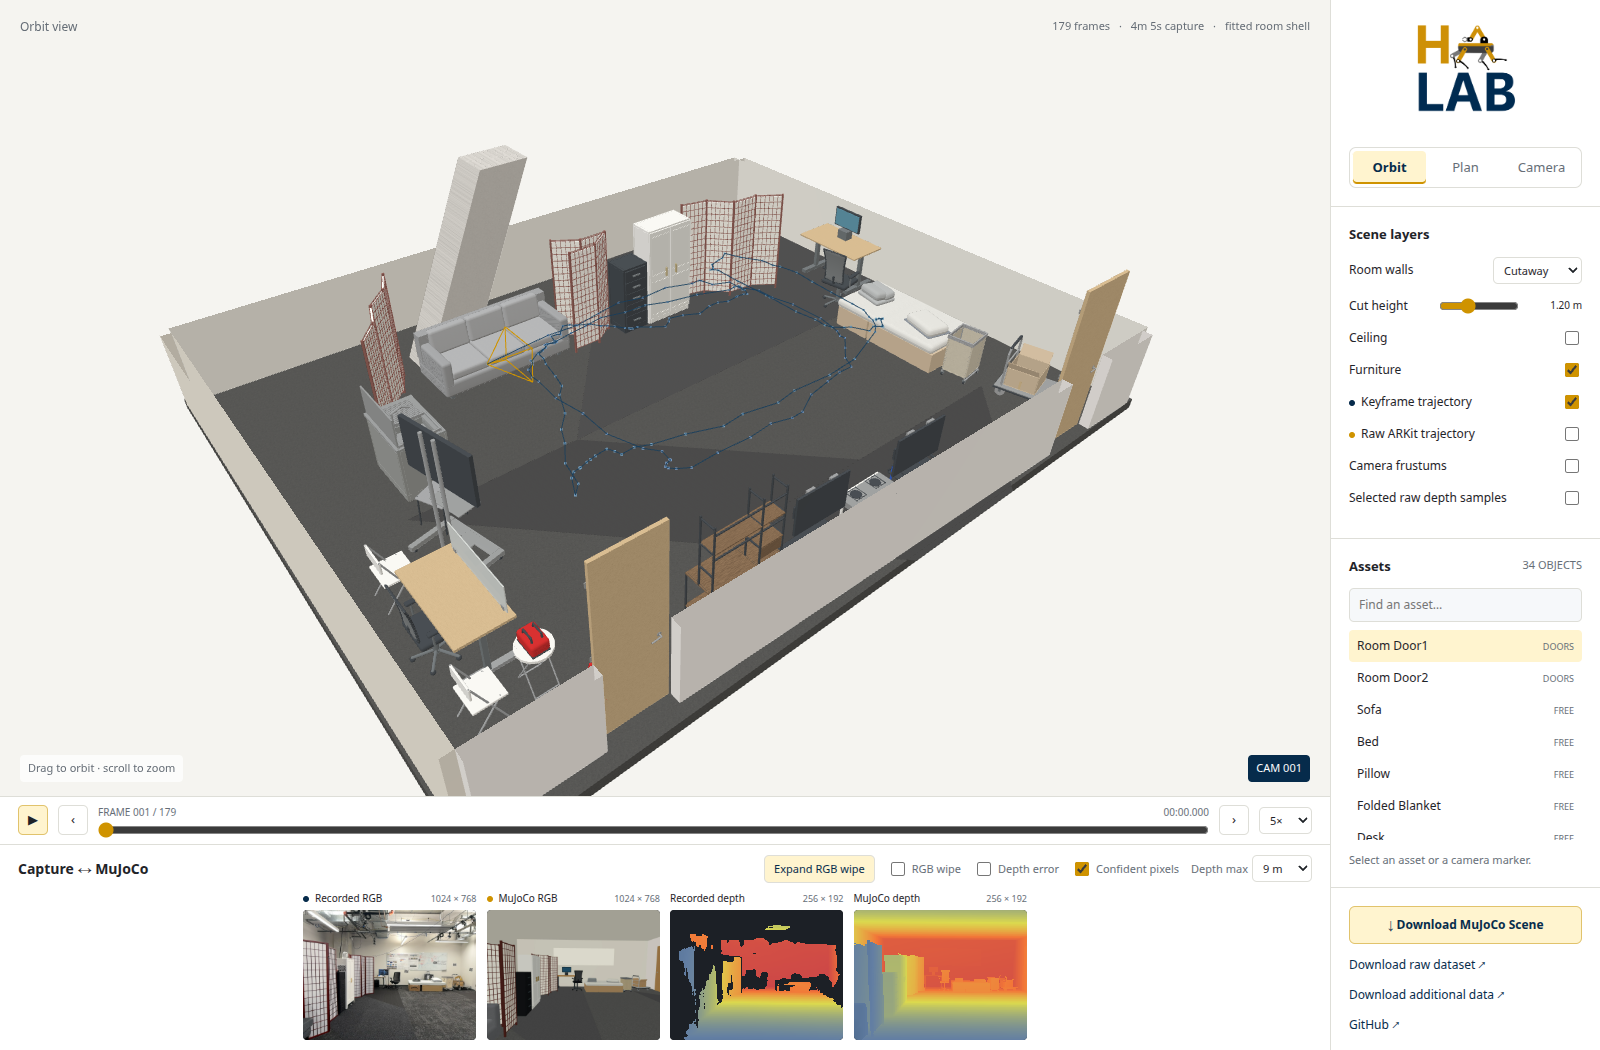
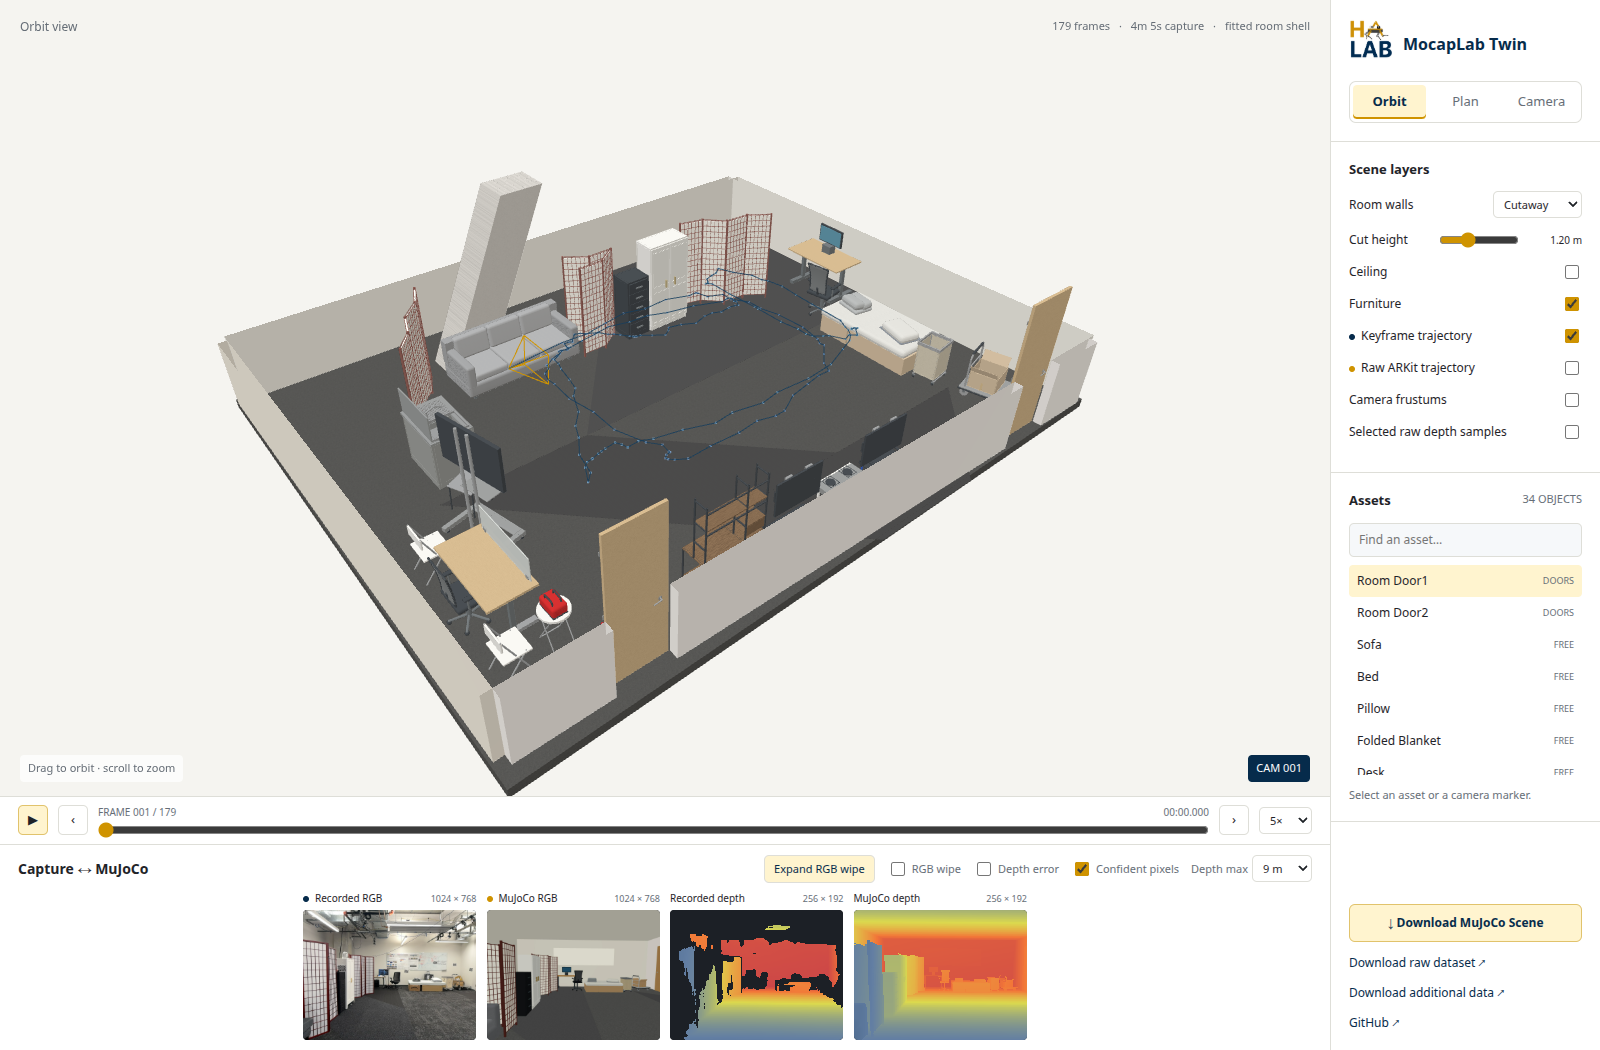
Compact MocapLab Twin header and widen default orbit view

diff --git a/mujoco_scene/web/app.js b/mujoco_scene/web/app.js
@@ -1,6 +1,7 @@
 import * as THREE from 'three';
 import { OrbitControls } from 'three/addons/controls/OrbitControls.js';
 const $=id=>document.getElementById(id);
+const orbitPosition=[-7.6,-9.5,9];
 const state={index:0,loaded:-1,mode:'orbit',playing:false,pair:null,selected:null};
 let manifest,renderer,scene,camera,controls,framePoints,pathLine,denseLine,allFrustums,currentFrustum,rawPoints;
 const meshList=[],assetMeshes=new Map(),cache=new Map(),meshById=new Map(),jointStates=new Map();
@@ -20,7 +21,7 @@ function sceneTexture(spec){const key=JSON.stringify(spec);if(!textureCache.has(
 function setupScene(){
  const stage=$('stage');scene=new THREE.Scene();scene.background=new THREE.Color('#f5f4f0');
  renderer=new THREE.WebGLRenderer({antialias:true});renderer.setPixelRatio(Math.min(devicePixelRatio,2));renderer.outputColorSpace=THREE.SRGBColorSpace;renderer.localClippingEnabled=true;renderer.setClearColor('#f5f4f0');stage.append(renderer.domElement);
- camera=new THREE.PerspectiveCamera(48,1,.025,60);camera.up.set(0,0,1);camera.position.set(-6.8,-8.5,8);
+ camera=new THREE.PerspectiveCamera(48,1,.025,60);camera.up.set(0,0,1);camera.position.set(...orbitPosition);
  controls=new OrbitControls(camera,renderer.domElement);controls.target.set(0,0,0);controls.enableDamping=true;controls.minDistance=.15;controls.maxDistance=35;controls.maxPolarAngle=Math.PI*.95;
  scene.add(new THREE.HemisphereLight(0xffffff,0x96918a,2.5));const light=new THREE.DirectionalLight(0xffffff,2.0);light.position.set(-4,-6,12);scene.add(light);
  for(const g of manifest.geoms){
@@ -42,7 +43,7 @@ function setupScene(){
 }
 function resize(){if(!renderer)return;const w=$('stage').clientWidth,h=$('stage').clientHeight;renderer.setSize(w,h,false);camera.aspect=w/h;camera.fov=THREE.MathUtils.radToDeg(2*Math.atan(Math.tan(THREE.MathUtils.degToRad(24))*Math.max(1,1.35/camera.aspect)));camera.updateProjectionMatrix();if(state.mode==='follow')followCamera();}
 function updateLayers(){const mode=$('wall-mode').value;wallClip.constant=+$('cut-height').value;$('cut-value').value=`${wallClip.constant.toFixed(2)} m`;$('cut-row').hidden=mode!=='cut';for(const mesh of meshList){const g=mesh.userData,isWall=[2,3].includes(g.group),isCeiling=g.group===4;mesh.visible=isCeiling?$('ceiling').checked:isWall?mode!=='hide':g.asset==='room'||$('furniture').checked;mesh.material.clippingPlanes=isWall&&mode==='cut'?[wallClip]:[];mesh.material.needsUpdate=true;}pathLine.visible=framePoints.visible=$('path').checked;denseLine.visible=$('dense').checked;allFrustums.visible=$('frustums').checked;if(rawPoints)rawPoints.visible=$('points').checked;}
-function setMode(mode){state.mode=mode;for(const id of ['orbit','top','follow'])$(id).setAttribute('aria-pressed',String(id===mode));controls.enabled=mode!=='follow';$('view-label').textContent={orbit:'Orbit view',top:'Plan view',follow:'Recorded camera view'}[mode];if(mode==='follow'){$('wall-mode').value='full';$('ceiling').checked=true;updateLayers();followCamera();}else{camera.up.set(0,0,1);camera.fov=48;camera.aspect=$('stage').clientWidth/$('stage').clientHeight;camera.updateProjectionMatrix();camera.position.set(...(mode==='top'?[0,-.01,14]:[-6.8,-8.5,8]));controls.target.set(0,0,0);if($('wall-mode').value==='full'){$('wall-mode').value='cut';$('ceiling').checked=false;updateLayers();}controls.update();resize();}}
+function setMode(mode){state.mode=mode;for(const id of ['orbit','top','follow'])$(id).setAttribute('aria-pressed',String(id===mode));controls.enabled=mode!=='follow';$('view-label').textContent={orbit:'Orbit view',top:'Plan view',follow:'Recorded camera view'}[mode];if(mode==='follow'){$('wall-mode').value='full';$('ceiling').checked=true;updateLayers();followCamera();}else{camera.up.set(0,0,1);camera.fov=48;camera.aspect=$('stage').clientWidth/$('stage').clientHeight;camera.updateProjectionMatrix();camera.position.set(...(mode==='top'?[0,-.01,14]:orbitPosition));controls.target.set(0,0,0);if($('wall-mode').value==='full'){$('wall-mode').value='cut';$('ceiling').checked=false;updateLayers();}controls.update();resize();}}
 function followCamera(){const f=manifest.frames[state.index],T=matrix(f.camera_to_world),k=f.intrinsics,n=.025;camera.position.setFromMatrixPosition(T);camera.quaternion.setFromRotationMatrix(T);camera.projectionMatrix.makePerspective(-k.cx/k.fx*n,(k.width-k.cx)/k.fx*n,k.cy/k.fy*n,-(k.height-k.cy)/k.fy*n,n,60);camera.projectionMatrixInverse.copy(camera.projectionMatrix).invert();camera.updateMatrixWorld();}
 function selectAsset(name){state.selected=name;for(const m of meshList)m.material.emissive.set(m.userData.asset===name?'#58420b':'#000000');document.querySelectorAll('.asset').forEach(b=>b.classList.toggle('selected',b.dataset.name===name));const item=manifest.assets.find(x=>x.name===name);$('selection').textContent=item?`${human(name)} · ${item.dimensions_m?.map(v=>v.toFixed(2)).join(' × ')||'estimated'} m${item.panels?' · 4 panels / 3 hinges':''}`:human(name);renderArticulations();}
 function assetList(){const query=$('search').value.toLowerCase();$('assets').replaceChildren();manifest.assets.filter(a=>a.name.replaceAll('_',' ').includes(query)).forEach(a=>{const b=document.createElement('button');b.className='asset';b.dataset.name=a.name;b.append(document.createTextNode(human(a.name)));const tag=document.createElement('span');const joints=(manifest.articulations||[]).filter(j=>j.asset===a.name);tag.textContent=joints.length?joints.some(j=>j.type==='slide')?'DRAWERS':'DOORS':a.panels?'4 PANELS':a.movable?'FREE':'FIXED';b.append(tag);b.onclick=()=>selectAsset(a.name);$('assets').append(b);});}

diff --git a/mujoco_scene/web/index.html b/mujoco_scene/web/index.html
@@ -1,5 +1,5 @@
 <!doctype html>
-<html lang="en"><head><meta charset="utf-8"><meta name="viewport" content="width=device-width, initial-scale=1"><title>HaLab Twin</title><link rel="icon" href="halab_logo.png" type="image/png"><link rel="stylesheet" href="style.css"><script type="importmap">{"imports":{"three":"./vendor/three.module.js","three/addons/controls/OrbitControls.js":"./vendor/OrbitControls.js"}}</script></head>
+<html lang="en"><head><meta charset="utf-8"><meta name="viewport" content="width=device-width, initial-scale=1"><title>MocapLab Twin</title><link rel="icon" href="halab_logo.png" type="image/png"><link rel="stylesheet" href="style.css"><script type="importmap">{"imports":{"three":"./vendor/three.module.js","three/addons/controls/OrbitControls.js":"./vendor/OrbitControls.js"}}</script></head>
 <body>
 <div class="workspace">
 <main><div id="stage" aria-label="Interactive 3D room"><div id="loading">Loading local capture…</div><div class="stage-hud"><span id="view-label">Orbit view</span></div><div id="stage-info"><b id="frame-count">179</b> frames <span>·</span> <b id="capture-duration">—</b> capture <span>·</span> <b id="room-size">—</b></div><div class="stage-hint">Drag to orbit · scroll to zoom</div><div id="camera-label">CAM 001</div></div>
@@ -11,7 +11,7 @@
 <figure><figcaption><span id="sim-depth-title">MuJoCo depth</span><span class="resolution" id="error-unit">256 × 192</span></figcaption><div class="image-wrap"><canvas id="rendered-depth" width="256" height="192" aria-label="MuJoCo depth or absolute depth error"></canvas></div></figure></div>
 <div id="error-message" role="alert" hidden></div>
 </section></main><aside aria-label="Scene controls">
-<section><h1 class="app-title"><img src="halab_logo.png" alt="Ha Lab Twin" width="1083" height="1260"></h1><div class="seg" aria-label="Camera view"><button id="orbit" aria-pressed="true">Orbit</button><button id="top" aria-pressed="false">Plan</button><button id="follow" aria-pressed="false">Camera</button></div></section>
+<section><h1 class="app-title"><img src="halab_logo.png" alt="HA LAB" width="1083" height="1260"><span>MocapLab Twin</span></h1><div class="seg" aria-label="Camera view"><button id="orbit" aria-pressed="true">Orbit</button><button id="top" aria-pressed="false">Plan</button><button id="follow" aria-pressed="false">Camera</button></div></section>
 <section class="layers"><div class="section-title">Scene layers</div>
 <label>Room walls <select id="wall-mode"><option value="cut">Cutaway</option><option value="full">Full height</option><option value="hide">Hidden</option></select></label>
 <label id="cut-row">Cut height <input type="range" id="cut-height" min=".3" max="3.1" step=".05" value="1.2"><output id="cut-value">1.20 m</output></label>

diff --git a/mujoco_scene/web/style.css b/mujoco_scene/web/style.css
@@ -102,8 +102,8 @@ h1, h2 { margin: 0; font-size: 14px; font-weight: 600; white-space: nowrap; }
   #cut-row input { width: 160px; }
 }
 
-.app-title { display: flex; justify-content: center; margin: 0 0 8px; }
-.app-title img { display: block; width: 104px; max-width: 100%; height: auto; }
+.app-title { display: flex; align-items: center; gap: 10px; margin: 0 0 12px; color: var(--navy); font-size: 16px; }
+.app-title img { display: block; flex: 0 0 44px; width: 44px; height: auto; }
 .articulations:empty { display: none; }
 .articulations { border-top: 1px solid var(--line); margin-top: 12px; padding-top: 8px; }
 .articulations label { display: flex; justify-content: space-between; align-items: center; padding: 5px 0; font-size: 12px; }
